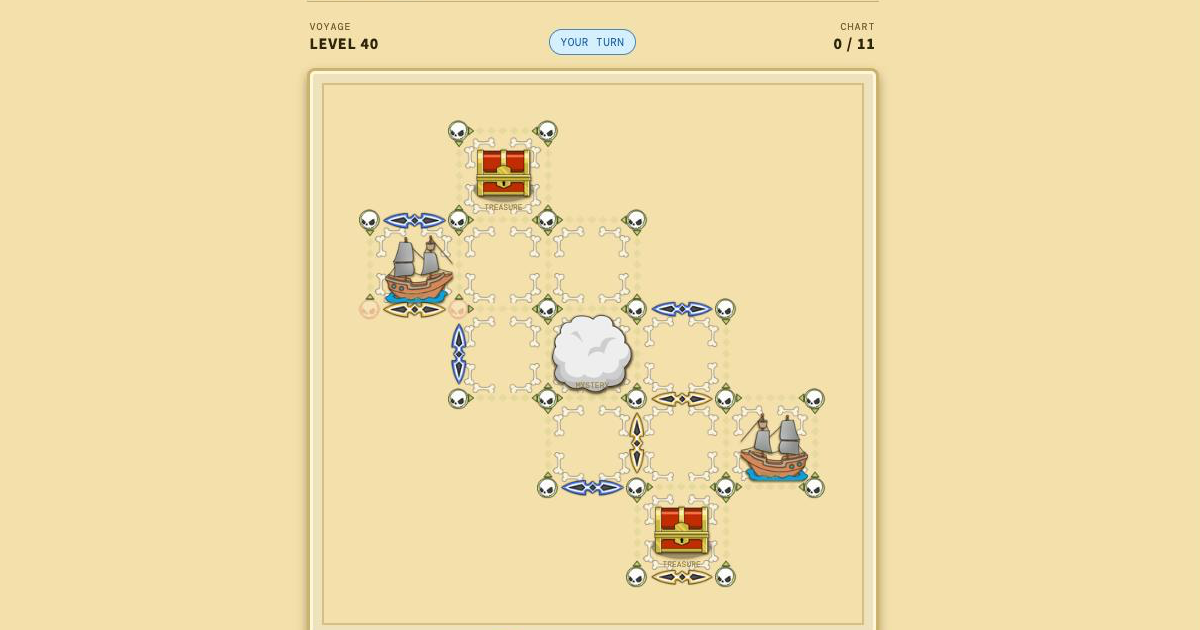
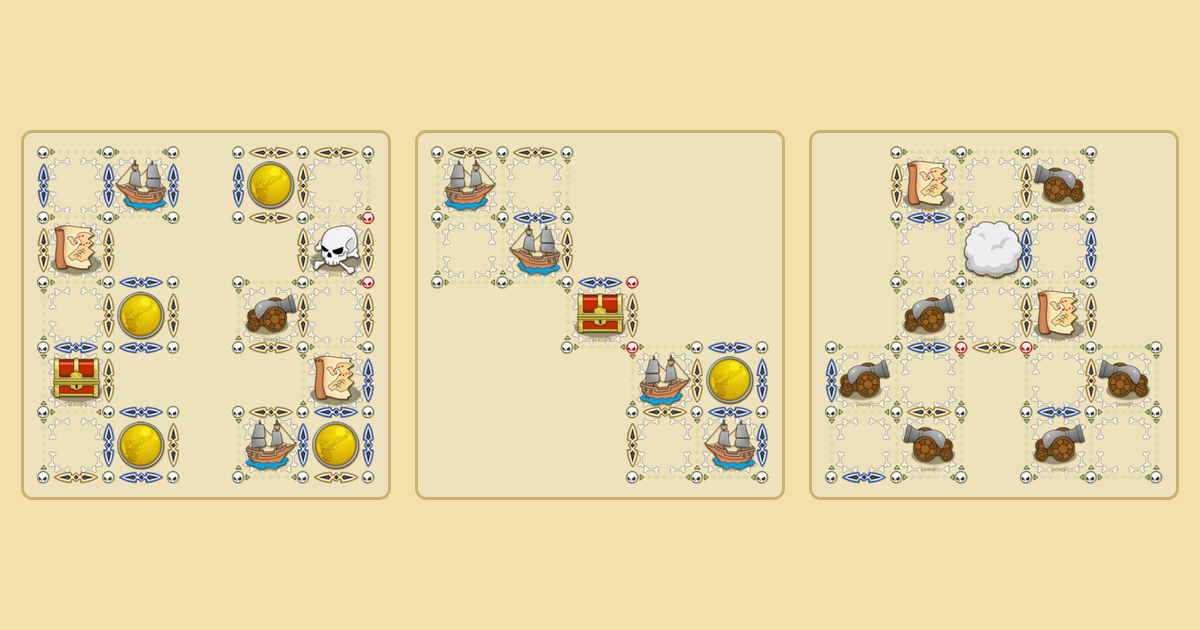
Show three Pirate Lines charts on the card, and fix 天予's name
The Pirate Lines cover was a cropped browser screenshot, board adrift in a
sea of empty margin, which read nothing like the full-bleed game art on the
other app cards. Replace it with three charts from the web build — levels
80, 88 and 92, captured mid-game — framed side by side in the game's own
parchment and chart border. It carries the home page card and the top of the
detail page both.

Also: the artist is 天予, not 天宇. Fourteen years is long enough to have his
name spelled right.

Claude-Session: https://claude.ai/code/session_01LMMeAFEEXyiBt2vKKnhE4D

Changed region(s): [[0.0308, 0.0302, 0.9867, 1.0]]

diff --git a/src/content/apps/zh/pirate-lines.md b/src/content/apps/zh/pirate-lines.md
@@ -16,7 +16,8 @@ order: 3
 还能再走一步。图画满，分高者赢。规则就这么多——然后你会花一个小时试图赢过电脑。
 
 96 个关卡，没有一关是规规矩矩的方格。航线绕着宝箱、海船和风暴走，所以有一半的谜题，其实是
-棋盘本身的形状。
+棋盘本身的形状。页面顶上那三张就是第 80、88、92 关：蓝线是我画的，金线是电脑画的，金币表示
+那个格子已经被拿走了。
 
 ## 我第一个独立做的游戏，现在想想有点离谱
 
@@ -32,10 +33,10 @@ order: 3
 
 ## 美术不是我做的
 
-你看到的每一个像素——海盗、帆船、宝箱、乌云，还有那个 logo——都出自 **天宇哥**之手，还有
+你看到的每一个像素——海盗、帆船、宝箱、乌云，还有那个 logo——都出自 **天予哥**之手，还有
 不少关卡也是他设计的。这游戏之所以好看，全是因为他。
 
-谢谢天宇哥。十四年过去了，这套美术一点都不显旧。
+谢谢天予哥。十四年过去了，这套美术一点都不显旧。
 
 ## 去玩两把
 

diff --git a/src/content/apps/en/pirate-lines.md b/src/content/apps/en/pirate-lines.md
@@ -19,6 +19,8 @@ beat the CPU.
 
 There are 96 levels, and none of them is a plain square grid. The routes wander around
 treasure chests, ships and storms, so half the puzzle is just the shape of the board.
+Levels 80, 88 and 92 are up at the top of this page: blue lines are mine, gold ones the
+CPU's, and a gold coin means that box is already taken.
 
 ## My first solo game, and I have no idea how
 
@@ -40,7 +42,7 @@ Every pixel you see — the pirates, the ships, the treasure chests, the storm c
 logo — is the work of **Tianyu**, and he designed a good number of the levels too. The game
 looks the way it does entirely because of him.
 
-Thank you, 天宇哥. Fourteen years later it still holds up.
+Thank you, 天予哥. Fourteen years later it still holds up.
 
 ## Go play it
 
